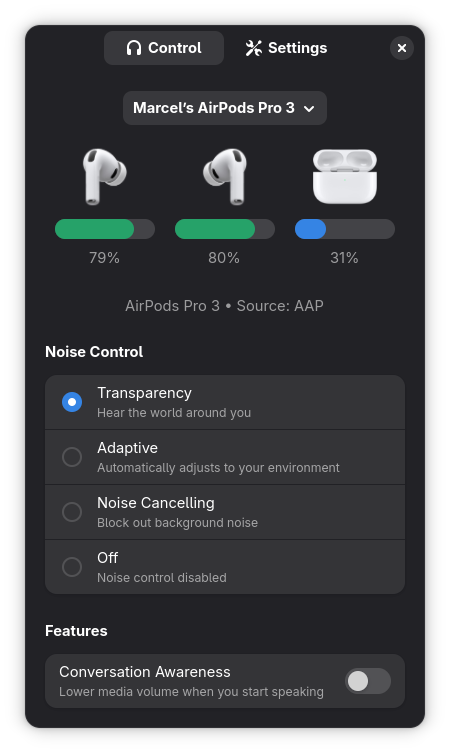
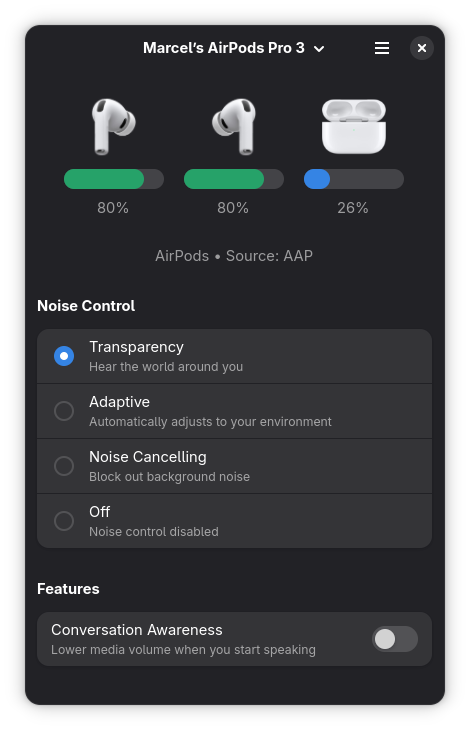
docs(readme): retake the screenshot without the view switcher

diff --git a/README.md b/README.md
@@ -3,7 +3,7 @@
 A native GNOME desktop application for managing Apple AirPods on Linux.
 
 <p align="center">
-  <img src="docs/images/control-tab.png" alt="LinuxPods Control tab: battery levels for both pods and the case, noise control modes and Conversation Awareness" width="360">
+  <img src="docs/images/control-tab.png" alt="LinuxPods window: device switcher in the header bar, battery levels for both pods and the case, noise control modes and Conversation Awareness" width="360">
 </p>
 
 > [!WARNING]
